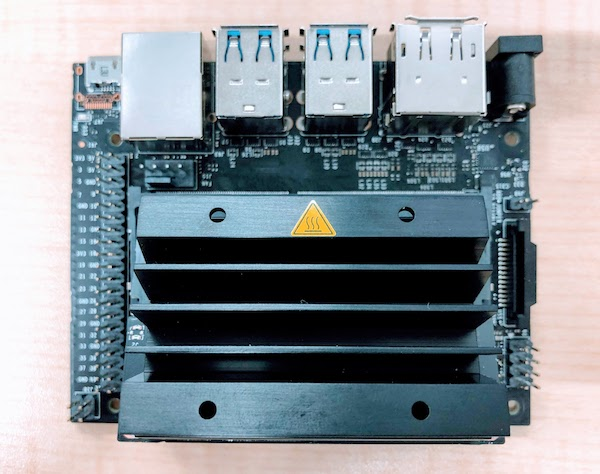
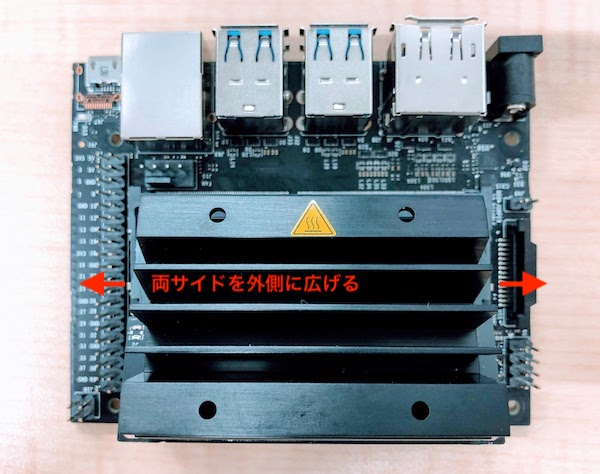
Deployed  with MkDocs version: 1.0.4

Changed region(s): [[0.24, 0.5612, 0.6, 0.6203], [0.81, 0.5612, 0.93, 0.6203], [0.12, 0.5612, 0.21, 0.6203]]

diff --git a/02.組み立て/01.build/index.html b/02.組み立て/01.build/index.html
@@ -769,8 +769,14 @@
 <p><img alt="" src="../img/kit015.JPG" /></p>
 <p><img alt="" src="../img/kit016.JPG" /></p>
 <p><img alt="" src="../img/kit017.JPG" /></p>
+<p>両サイドの留め具を外に開き、Jetson Nano moduleを取り外します。</p>
 <p><img alt="" src="../img/kit018.JPG" /></p>
+<p>Wifi Moduleを取り付けるために、真ん中のネジを外しておきます。</p>
 <p><img alt="" src="../img/kit019.JPG" /></p>
+<p>Wifi Moduleは、</p>
+<p><img alt="" src="../img/kit020.JPG" /></p>
+<p><img alt="" src="../img/kit021.JPG" /></p>
+<p><img alt="" src="../img/kit022.JPG" /></p>
 <h2 id="6-jetson-nano">6. Jetson NANO取り付け</h2>
 <p>使用ネジ　M2-6mmタッピング　x４</p>
 <hr>
